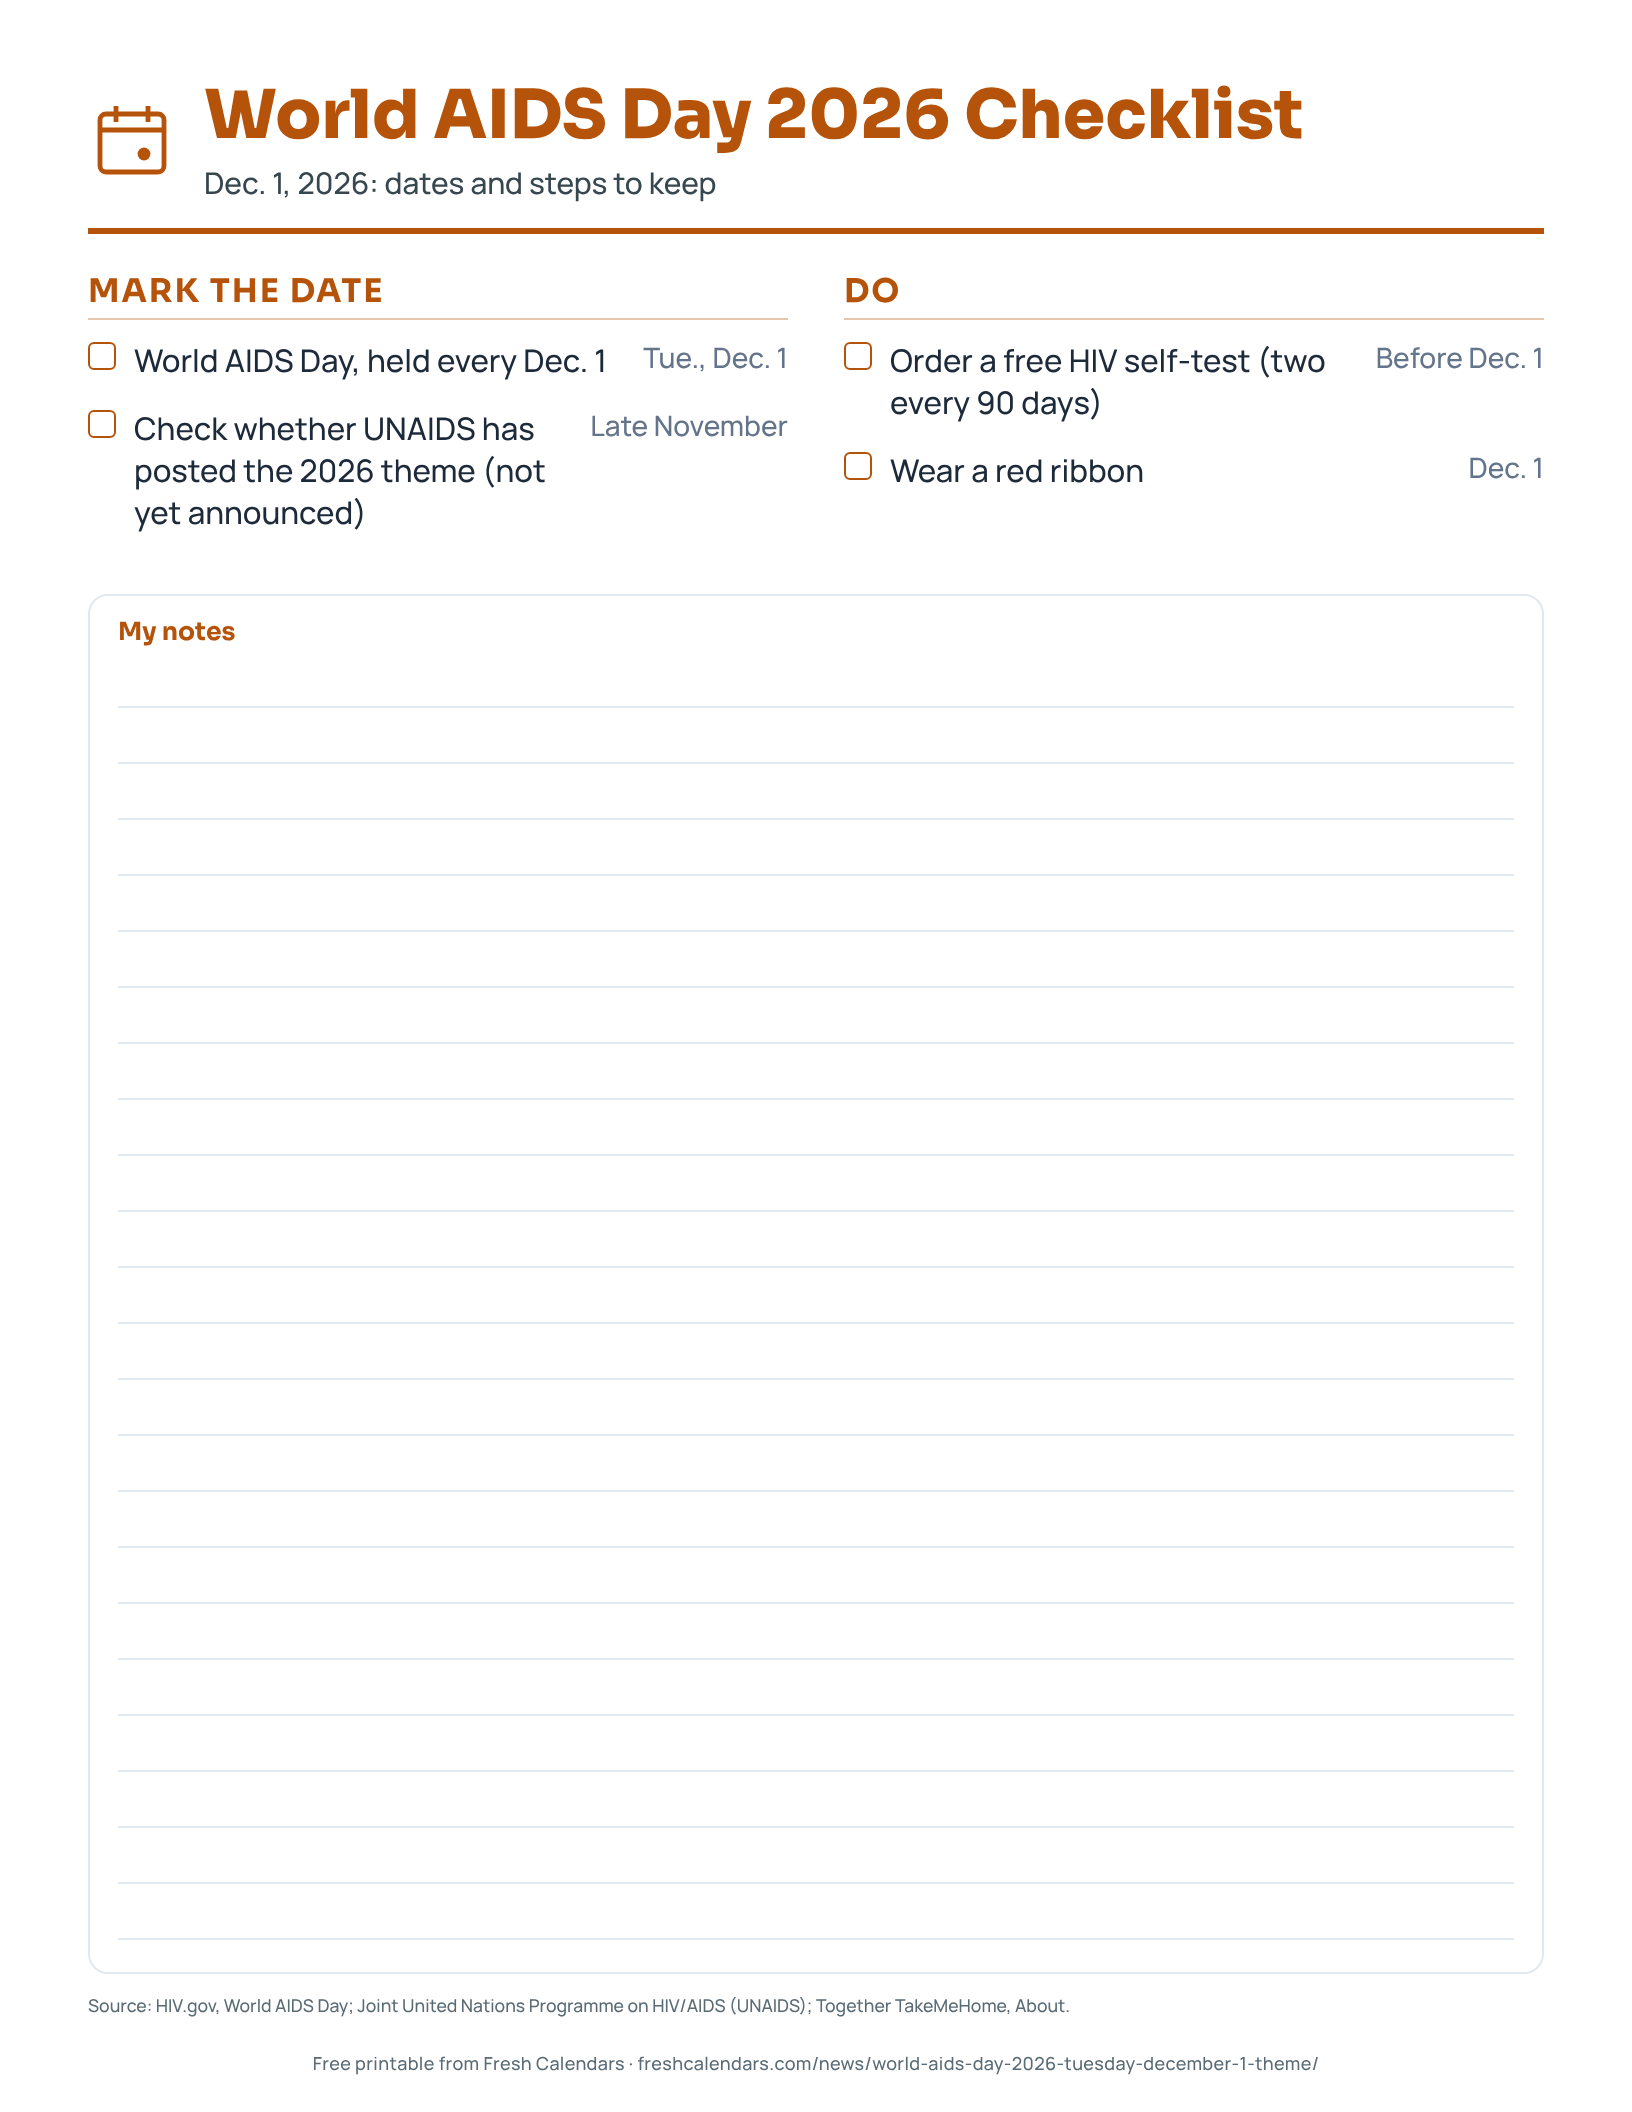
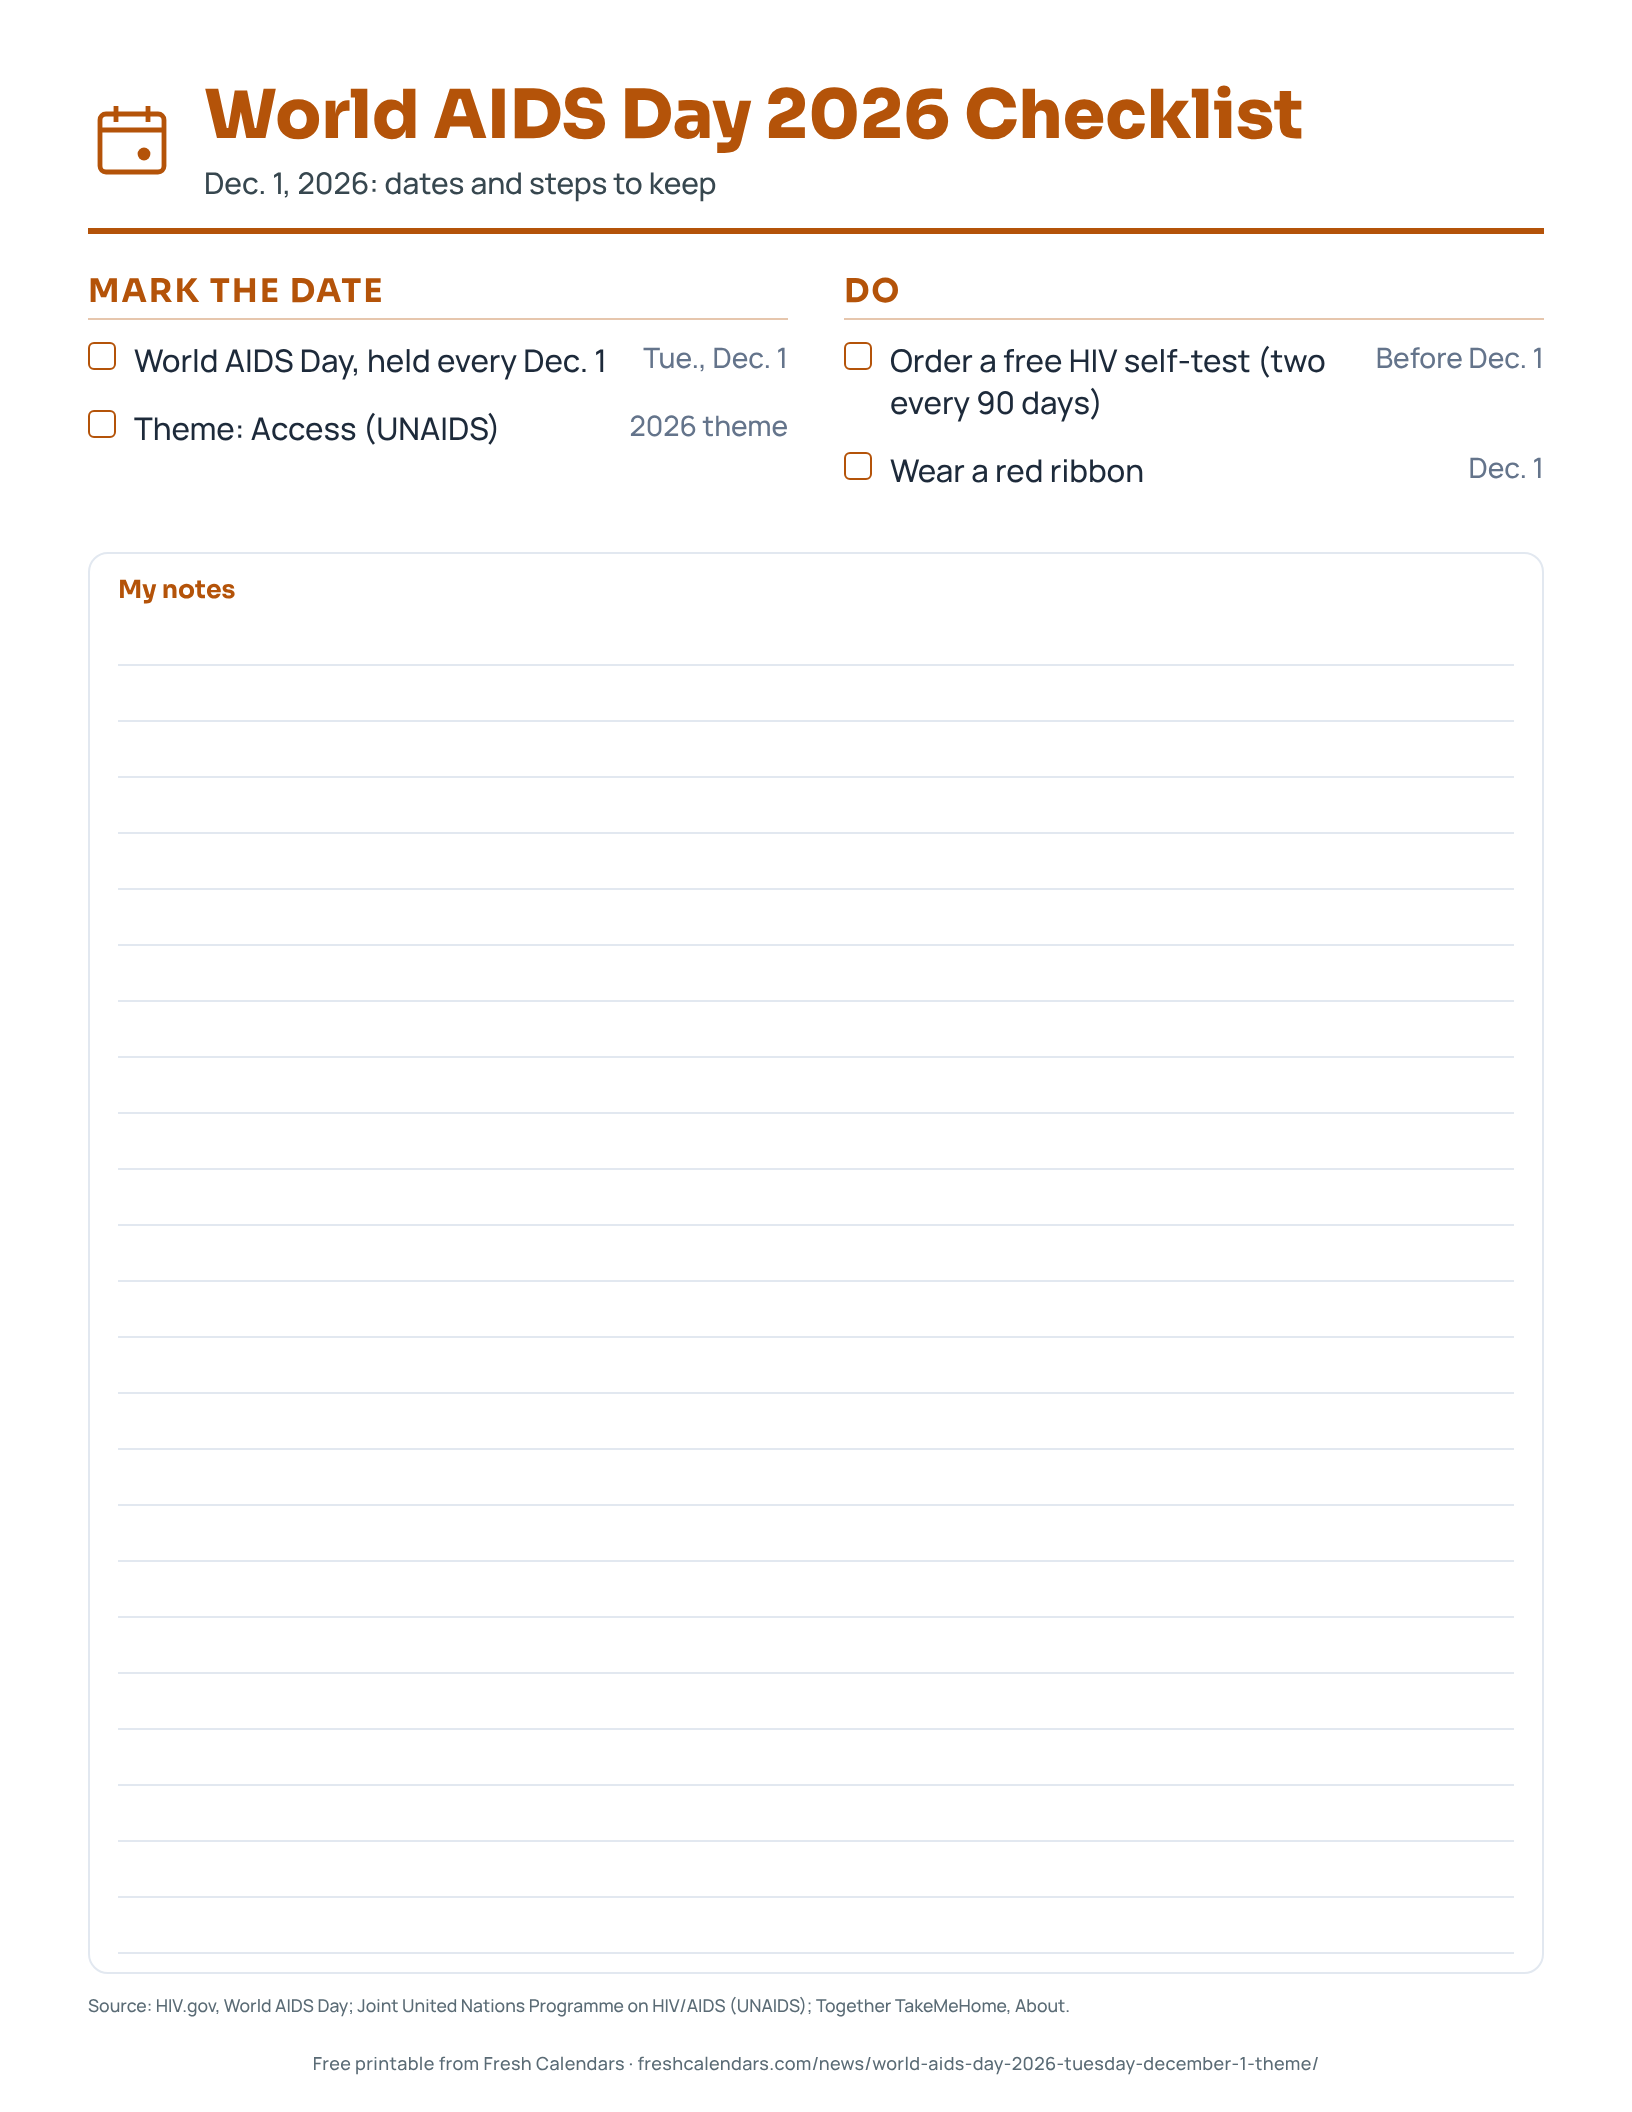
news(u): World AIDS Day 2026 theme is access (UNAIDS); hero card and checklist updated; queue lines
Claude-Session: https://claude.ai/code/session_01YBn8zc69SkibUeUXUD7BLa

Changed region(s): [[0.0625, 0.1875, 0.3125, 0.3125], [0.375, 0.1875, 0.4688, 0.2188]]

diff --git a/apps/news/src/content/articles/2026/11/world-aids-day-2026-tuesday-december-1-theme.md b/apps/news/src/content/articles/2026/11/world-aids-day-2026-tuesday-december-1-theme.md
@@ -1,9 +1,10 @@
 ---
-title: "World AIDS Day 2026: Tuesday, Dec. 1, and What We Know About This Year's Theme"
-seoTitle: "World AIDS Day 2026: Dec. 1 Date and Theme Status"
-description: "The acquired immunodeficiency syndrome (AIDS) awareness day, World AIDS Day, falls on Tuesday, Dec. 1, 2026. Its 2026 theme has not been announced yet."
+title: "World AIDS Day 2026: Tuesday, Dec. 1, and the Theme, Access"
+seoTitle: "World AIDS Day 2026: Dec. 1 Date and Theme, Access"
+description: "The acquired immunodeficiency syndrome (AIDS) awareness day, World AIDS Day, is Tuesday, Dec. 1, 2026. Its 2026 theme is access."
 type: news
 publishedAt: "2026-11-03T06:10:00-05:00"
+updatedAt: "2026-11-04T13:20:00-05:00"
 authors: [christina-gerland]
 category: holidays
 keywords: ["world aids day 2026", "world aids day 2026 theme", "when is world aids day 2026", "free hiv test"]
@@ -12,19 +13,20 @@ assets:
   overlay: true
   kicker: "World AIDS Day · Tue., Dec. 1, 2026"
   date: "2026-12-01"
-  card: { top: "World AIDS Day 2026", big: "Dec. 1", bottom: "2026 theme not yet announced" }
+  card: { top: "World AIDS Day 2026", big: "Dec. 1", bottom: "2026 theme: access" }
   printable:
+    noKit: "awareness-day checklist"
     slug: world-aids-day-2026-checklist
     group: world-aids-day-2026
     title: "World AIDS Day 2026 Checklist"
     subtitle: "Dec. 1, 2026: dates and steps to keep"
     rows:
       - { when: "Tue., Dec. 1", what: "World AIDS Day, held every Dec. 1", section: "Mark the date" }
-      - { when: "Late November", what: "Check whether UNAIDS has posted the 2026 theme (not yet announced)", section: "Mark the date" }
+      - { when: "2026 theme", what: "Theme: Access (UNAIDS)", section: "Mark the date" }
       - { when: "Before Dec. 1", what: "Order a free HIV self-test (two every 90 days)", section: "Do" }
       - { when: "Dec. 1", what: "Wear a red ribbon", section: "Do" }
     note: "Source: HIV.gov, World AIDS Day; Joint United Nations Programme on HIV/AIDS (UNAIDS); Together TakeMeHome, About."
-    description: "A one-page checklist for World AIDS Day on Tuesday, Dec. 1, 2026: the date, the theme to check, a free self-test and a red ribbon."
+    description: "A one-page checklist for World AIDS Day on Tuesday, Dec. 1, 2026: the date, the theme, a free self-test and a red ribbon."
     alt: "Printable World AIDS Day 2026 checklist with tick boxes for the date, the theme, a free self-test and a red ribbon"
 hero:
   src: ../../../../assets/news/world-aids-day-2026-tuesday-december-1-theme/world-aids-day-2026-tuesday-december-1-theme.webp
@@ -39,14 +41,18 @@ hero:
     authorUrl: "https://www.wikidata.org/wiki/Q116943179"
 summary:
   - "World AIDS Day is held on Dec. 1, which is a Tuesday in 2026, 28 days after Nov. 3, according to HIV.gov."
-  - "The 2026 theme has not yet been announced by UNAIDS or the World Health Organization (WHO) as of Nov. 3, 2026; the 2025 theme was \"Overcoming disruption, transforming the AIDS response.\""
-  - "WHO estimates 41.0 million people were living with HIV at the end of 2025; the CDC estimates more than 1.2 million Americans were living with HIV in 2024."
+  - "UNAIDS lists the 2026 theme as access (checked Nov. 4, 2026); the 2025 theme was \"Overcoming disruption, transforming the AIDS response.\""
+  - "The World Health Organization (WHO) estimates 41.0 million people were living with HIV at the end of 2025; the CDC estimates more than 1.2 million Americans were living with HIV in 2024."
   - "Together TakeMeHome mails free HIV self-tests, and you can order two every 90 days."
 sources:
   - title: "World AIDS Day"
     url: "https://www.hiv.gov/events/awareness-days/world-aids-day/"
     publisher: "HIV.gov"
     date: "2026-10-14"
+  - title: "World AIDS Day 2026"
+    url: "https://www.unaids.org/en/2026-world-aids-day"
+    publisher: "Joint United Nations Programme on HIV/AIDS (UNAIDS)"
+    date: "2026-11-04"
   - title: "World AIDS Day 2025 - Overcoming disruption, transforming the AIDS response"
     url: "https://www.unaids.org/en/2025-world-aids-day"
     publisher: "Joint United Nations Programme on HIV/AIDS (UNAIDS)"
@@ -88,7 +94,7 @@ related: [giving-tuesday-2026-december-1-tax-deduction-charity-check, december-2
 downloads:
   - group: "World AIDS Day 2026 Checklist printables"
     title: "World AIDS Day 2026 Checklist"
-    description: "A one-page checklist for World AIDS Day on Tuesday, Dec. 1, 2026: the date, the theme to check, a free self-test and a red ribbon."
+    description: "A one-page checklist for World AIDS Day on Tuesday, Dec. 1, 2026: the date, the theme, a free self-test and a red ribbon."
     preview: ../../../../assets/news/world-aids-day-2026/world-aids-day-2026-checklist.png
     alt: "Printable World AIDS Day 2026 checklist with tick boxes for the date, the theme, a free self-test and a red ribbon"
     pdf: "/news/downloads/world-aids-day-2026/world-aids-day-2026-checklist.pdf"
@@ -97,24 +103,24 @@ downloads:
 draft: false
 ---
 
-**World AIDS Day is held on Dec. 1, a Tuesday in 2026, and the 2026 theme has not yet been announced.** The federal human immunodeficiency virus (HIV) information site HIV.gov says the day is held on "December 1" and that "the first World AIDS Day took place in 1988." As of Nov. 3, 2026, neither the Joint United Nations Programme on HIV/AIDS (UNAIDS) nor the World Health Organization (WHO) had announced a theme for this year.
+**World AIDS Day is held on Dec. 1, a Tuesday in 2026, and the 2026 theme is access (checked Nov. 4, 2026).** The federal human immunodeficiency virus (HIV) information site HIV.gov says the day is held on "December 1" and that "the first World AIDS Day took place in 1988." The Joint United Nations Programme on HIV/AIDS (UNAIDS) lists the theme as access and says, "The theme of this year's World AIDS Day is access," and describes it as "Access to services, rights, resources and political leadership."
 
-## World AIDS Day 2026 date and theme status
+## World AIDS Day 2026 date and theme
 
-Dec. 1 is 28 days after Nov. 3. UNAIDS announced last year's theme on Nov. 25, 2025, and its 2024 theme on Nov. 26, 2024. Those are past dates, not a schedule for 2026, so we will list the 2026 theme only once UNAIDS or WHO posts it.
+Dec. 1 is 27 days after Nov. 4. The UNAIDS page for 2026 is headed "World AIDS Day 2026: Ending AIDS starts with access" and says, "Without access, the world will not end AIDS." The page shows no posting date.
 
 | Year | Date | Theme (UNAIDS) |
 |---|---|---|
 | 2024 | Dec. 1 | "Take the rights path" |
 | 2025 | Dec. 1 | "Overcoming disruption, transforming the AIDS response" |
-| 2026 | Tuesday, Dec. 1 | Not yet announced |
+| 2026 | Tuesday, Dec. 1 | Access |
 | 2027 | Wednesday, Dec. 1 | Not yet announced |
 
-The 2025 and 2024 themes come from UNAIDS pages for each year. The weekdays for 2026 and 2027 are computed from the calendar.
+The themes come from UNAIDS pages for each year; the 2027 theme is not yet announced. The weekdays for 2026 and 2027 are computed from the calendar.
 
 ## What the latest HIV numbers say
 
-The Centers for Disease Control and Prevention (CDC) published its 2024 national data on May 18, 2026, and HIV.gov repeated it on May 27, 2026. WHO's fact sheet is dated July 27, 2026.
+The Centers for Disease Control and Prevention (CDC) published its 2024 national data on May 18, 2026, and HIV.gov repeated it on May 27, 2026. The World Health Organization (WHO) fact sheet is dated July 27, 2026.
 
 The figures below come from two agencies and cover different years, so they should not be compared line by line.
 
@@ -140,4 +146,4 @@ UNAIDS says that "in 1991, some of the Visual AIDS artists came together to desi
 
 ## World AIDS Day 2026 checklist
 
-The printable checklist on this page lists the date, a self-test order, the red ribbon and a reminder to recheck the theme in late November. Mark Dec. 1 on the [December 2026 printable calendar](/december-calendars.html), and see the [November 2026 printable calendar](/november-calendars.html) for the weeks before. The same Tuesday is [GivingTuesday](/news/giving-tuesday-2026-december-1-tax-deduction-charity-check/), and our [December 2026 important dates](/news/december-2026-important-dates-holidays-days-until/) story lists the rest of the month.
+The printable checklist on this page lists the date, the 2026 theme, a self-test order and the red ribbon. Mark Dec. 1 on the [December 2026 printable calendar](/december-calendars.html), and see the [November 2026 printable calendar](/november-calendars.html) for the weeks before. The same Tuesday is [GivingTuesday](/news/giving-tuesday-2026-december-1-tax-deduction-charity-check/), and our [December 2026 important dates](/news/december-2026-important-dates-holidays-days-until/) story lists the rest of the month.

diff --git a/docs/desk/w1.md b/docs/desk/w1.md
@@ -304,6 +304,10 @@ Holidays, elections, government and civic deadlines, UK and Canada. Byline `chri
 
 ## Updates
 
+- [x] **upd-thanksgiving-parades-2026-detroit-houston-philadelphia-chicago-start-times-tv** (done 2026-11-04, Houston grand marshal Lizzo from the city's page, Detroit street closures from The Parade Company; Chicago, Philadelphia and Plymouth left as they were: organizer pages blocked or unverified) Self-found by the update desk.
+
+- [x] **upd-world-aids-day-2026-tuesday-december-1-theme** (done 2026-11-04, UNAIDS lists the 2026 theme as access; title, hero card and printable updated) Self-found by the update desk.
+
 - [x] **upd-advent-calendar-2026-dates-free-printable** (done 2026-11-04, Callaway Supersoft 12-Day Advent Calendar 2026, $37.99, in stock on callawaygolf.com, replaces the 2025-only golf row) Self-found by the update desk: Advent starts Nov. 29, story last checked Oct. 19.
 - [x] **upd-lunar-new-year-2027-year-of-the-goat** (done 2026-11-03, title: "Lunar New Year 2027: Feb. 6, Year of the Goat" → "Chinese New Year 2027: Feb. 6, Year of the Goat"; first sentence names Chinese New Year) SEO brief (by 2026-11-08). Search Console: "chinese new year 2027", 552 impressions at position 5.2, 0 clicks in 28 days. Diagnosis: searchers type "Chinese New Year 2027" and every top result (publicholidays, chinatravel, examinechina) leads its title with those words, while our search title says only "Lunar New Year 2027", so the snippet does not match the query. Change: seoTitle to "Chinese New Year 2027: Feb. 6, Year of the Goat" (47 characters); first sentence to "**Lunar New Year 2027, also called Chinese New Year, falls on Saturday, Feb. 6**, the first day of the Year of the Goat." (rest of the paragraph unchanged). Keep title, description, slug, byline, hero. Measured 14 days after it is done.
 
